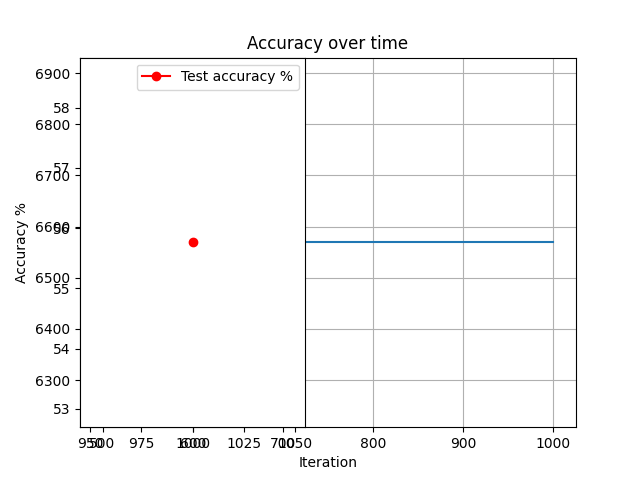
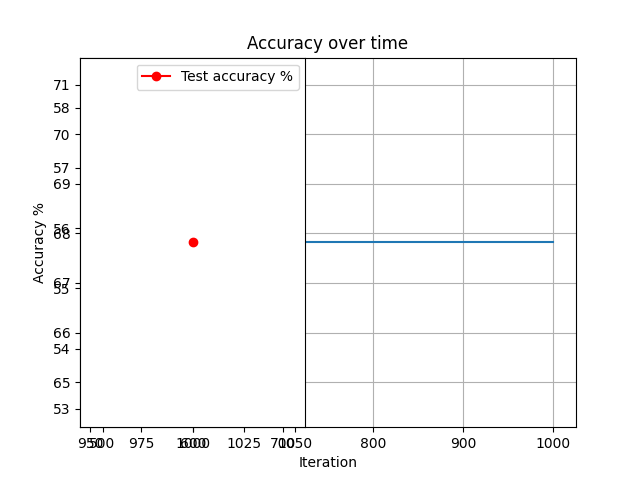
from vstack to to_numpy

diff --git a/fnnCopySimplified.py b/fnnCopySimplified.py
@@ -19,8 +19,10 @@ class FeedforwardNeuralNetModel(nn.Module):
     def forward(self, x):
         out = self.fc1(x)
         out = self.relu(out)
+        out = self.dropout(out)
         out = self.fc2(out)
         out = self.relu(out)
+        out = self.sigmoid(out)
         out = self.fc3(out)
         return out
 
@@ -54,14 +56,14 @@ actual = np.array(test_portion_dataset_labels)
 train_portion_dataset = dataset[:int((len(dataset) * (7/8)))]
 train_portion_dataset_labels = dataset_labels[:int((len(dataset) * (7/8)))]
 
-dataset_features = np.vstack(train_portion_dataset.values).astype(np.float32)
-test_dataset_features = np.vstack(test_portion_dataset.values).astype(np.float32)
+dataset_features = train_portion_dataset.to_numpy().astype(np.float32)
+test_dataset_features = test_portion_dataset.to_numpy().astype(np.float32)
 
 scaler = StandardScaler()
-train_portion_dataset = scaler.fit_transform(train_portion_dataset)
+train_poartion_dataset = scaler.fit_transform(train_portion_dataset)
 test_portion_dataset = scaler.fit_transform(test_portion_dataset)
 
-batch_size = 10
+batch_size = 100
 n_iters = 10000
 num_epochs = int(n_iters / (len(dataset_features) / batch_size))
 input_dim = 33
@@ -72,18 +74,18 @@ layer_dim = 2
 train_dataset = CSVDataset(dataset_features, train_portion_dataset_labels)
 test_dataset = CSVDataset(test_dataset_features, test_portion_dataset_labels)
 dataset_loader = torch.utils.data.DataLoader(dataset=train_dataset,
-                                            batch_size = batch_size,)
+                                            batch_size = batch_size, shuffle=True)
 
 test_loader = torch.utils.data.DataLoader(dataset=test_dataset,
-                                            batch_size = batch_size)
+                                            batch_size = batch_size, shuffle=True)
 
 
 model = FeedforwardNeuralNetModel(input_dim, hidden_dim, output_dim)
-print(sum([x.reshape(-1).shape[0] for x in model.parameters()]))  
+print("\n" + str(sum([x.reshape(-1).shape[0] for x in model.parameters()]))  )
 criterion = nn.CrossEntropyLoss()
 
-learning_rate = 0.0005
-optimizer = torch.optim.SGD(model.parameters(), lr=learning_rate) 
+learning_rate = 0.001
+optimizer = torch.optim.Adam(model.parameters(), lr=learning_rate) 
 
 accuracies = []
 iterations = []
